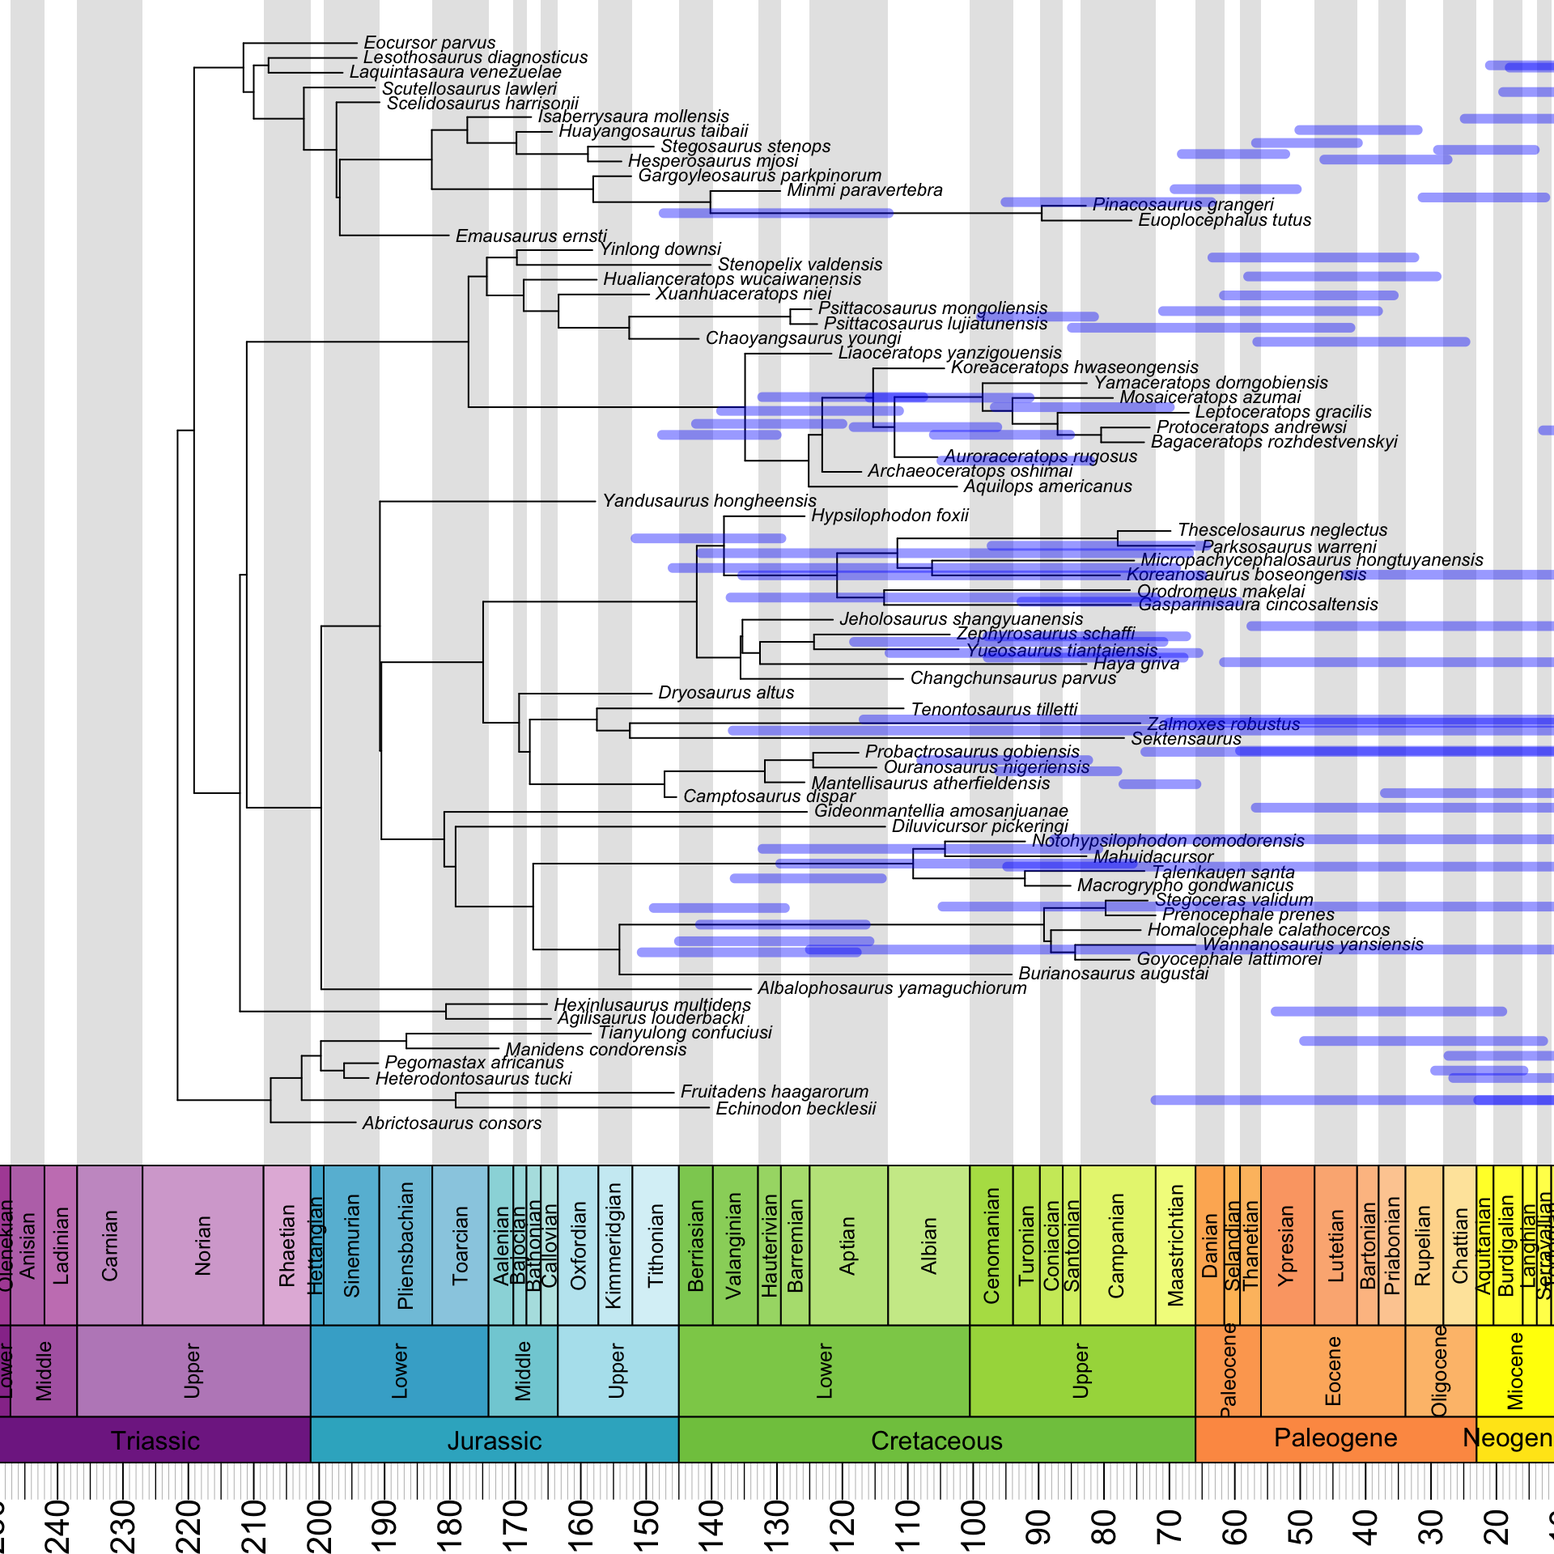
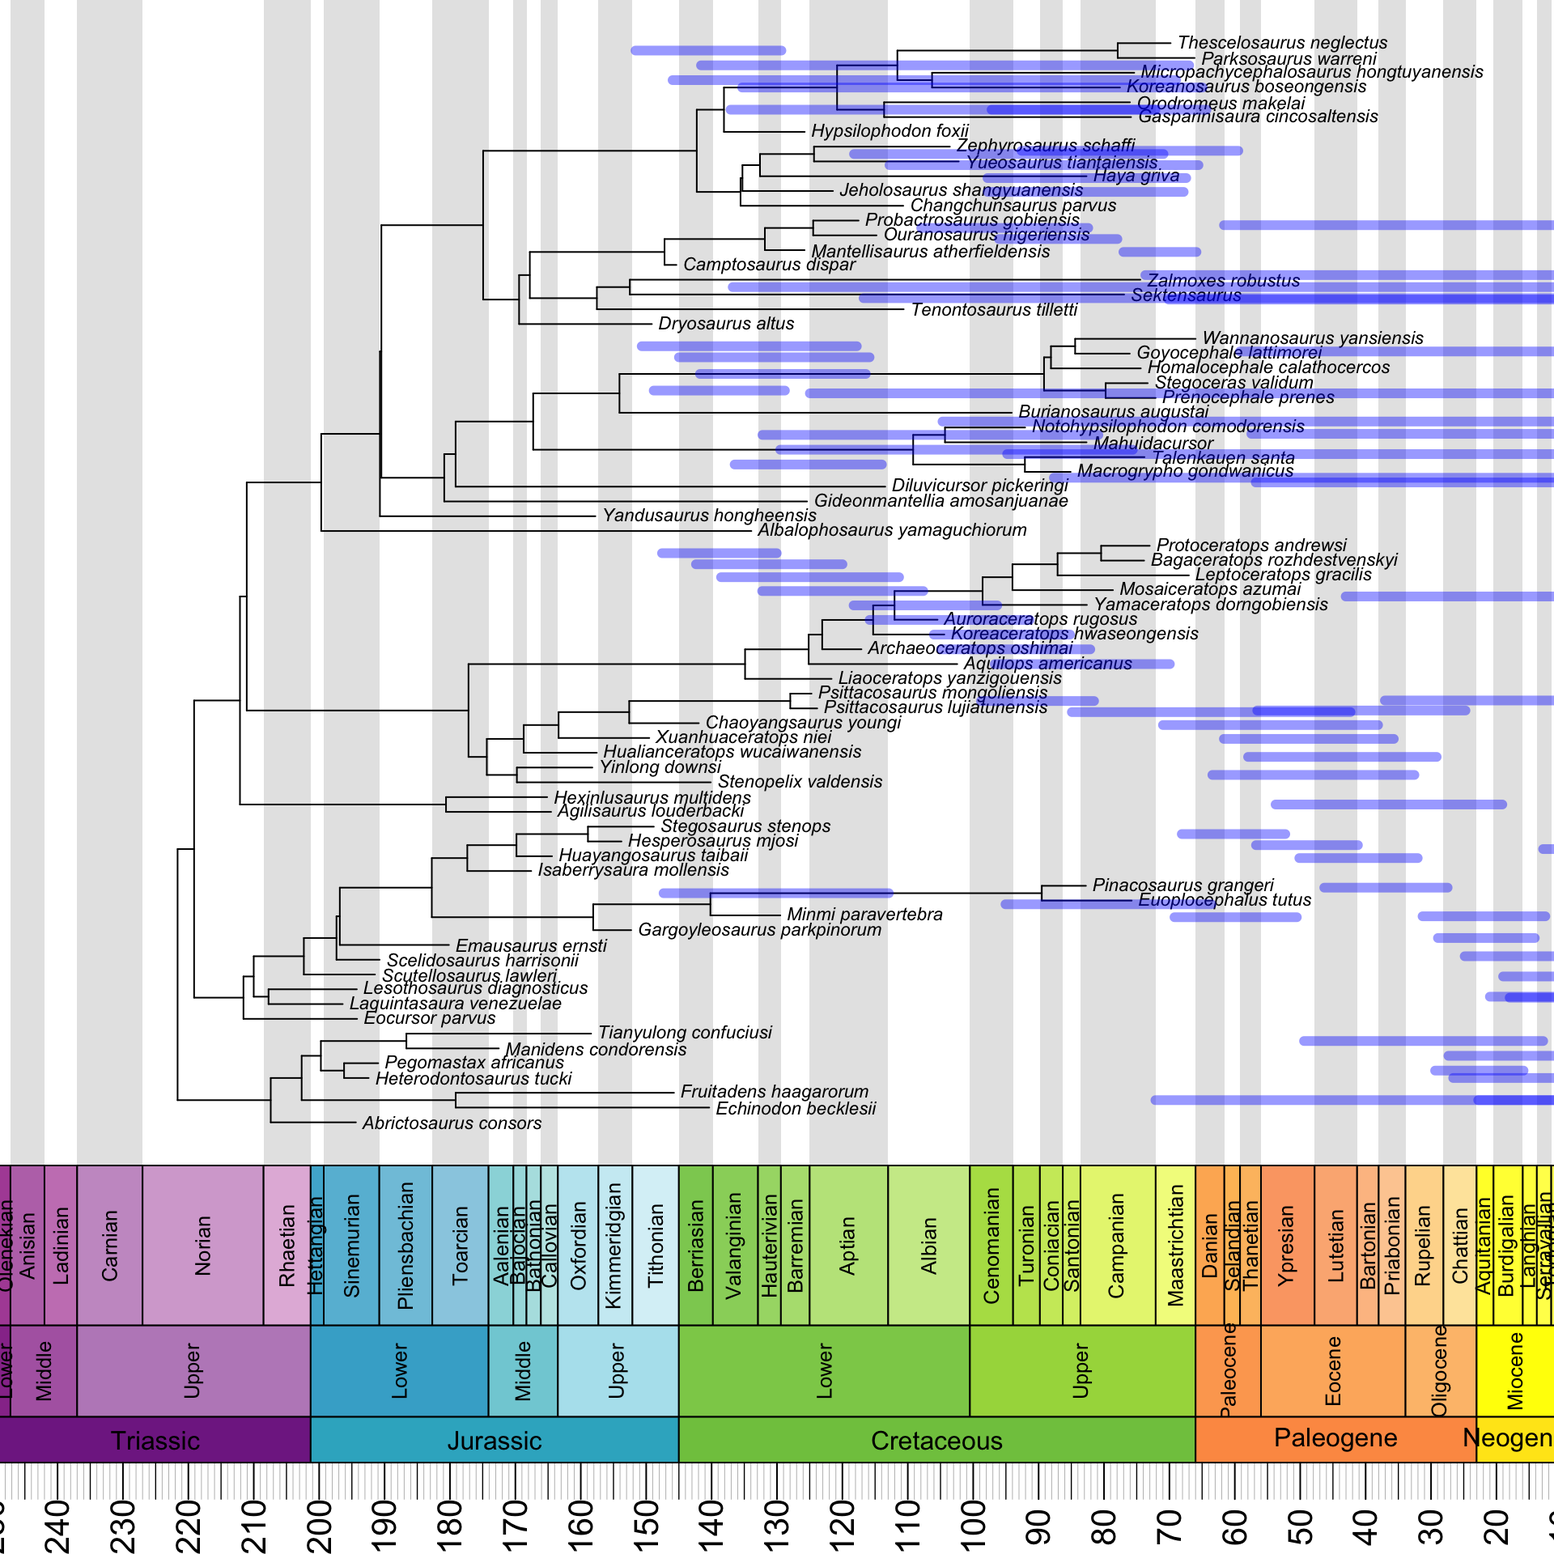
rebuilding site Wed Jan 29 10:23:34 CST 2020

diff --git a/post/plotting_beast/index.html b/post/plotting_beast/index.html
@@ -28,7 +28,7 @@
   
     
   
-  <meta name="description" content="The summary of the posterior from a Bayesian tip-dating analysis – e.g., the maximum clade credibility tree computed by TreeAnnotator from a BEAST 2 posterior – usually provides a whole wealth of information to the user, and while barebones, quick-and-dirty plotting of the results using FigTree or plot.phylo() is good enough for assessing whether the results are reasonable or not, it definitely doesn’t provide publication-quality figures. Below, I’ll try to show how such figures can be made those by combining several existing R packages.">
+  <meta name="description" content="The summary of the posterior from a Bayesian tip-dating analysis – e.g., the maximum clade credibility tree computed by TreeAnnotator from a BEAST 2 posterior – usually provides a whole wealth of information to the user, and while barebones, quick-and-dirty plotting of the results using FigTree or plot.phylo() is good enough for assessing whether the results are reasonable or not, it definitely doesn’t provide publication-quality figures. Below, I’ll try to show how such figures can be made by combining several existing R packages.">
 
   
   <link rel="alternate" hreflang="en-us" href="/post/plotting_beast/">
@@ -112,7 +112,7 @@
   <meta property="og:site_name" content="David Černý">
   <meta property="og:url" content="/post/plotting_beast/">
   <meta property="og:title" content="Visualizing BEAST 2 time trees | David Černý">
-  <meta property="og:description" content="The summary of the posterior from a Bayesian tip-dating analysis – e.g., the maximum clade credibility tree computed by TreeAnnotator from a BEAST 2 posterior – usually provides a whole wealth of information to the user, and while barebones, quick-and-dirty plotting of the results using FigTree or plot.phylo() is good enough for assessing whether the results are reasonable or not, it definitely doesn’t provide publication-quality figures. Below, I’ll try to show how such figures can be made those by combining several existing R packages."><meta property="og:image" content="/post/plotting_beast/featured.png">
+  <meta property="og:description" content="The summary of the posterior from a Bayesian tip-dating analysis – e.g., the maximum clade credibility tree computed by TreeAnnotator from a BEAST 2 posterior – usually provides a whole wealth of information to the user, and while barebones, quick-and-dirty plotting of the results using FigTree or plot.phylo() is good enough for assessing whether the results are reasonable or not, it definitely doesn’t provide publication-quality figures. Below, I’ll try to show how such figures can be made by combining several existing R packages."><meta property="og:image" content="/post/plotting_beast/featured.png">
   <meta property="twitter:image" content="/post/plotting_beast/featured.png"><meta property="og:locale" content="en-us">
   
     
@@ -168,7 +168,7 @@
       "url": "/img/icon-512.png"
     }
   },
-  "description": "The summary of the posterior from a Bayesian tip-dating analysis – e.g., the maximum clade credibility tree computed by TreeAnnotator from a BEAST 2 posterior – usually provides a whole wealth of information to the user, and while barebones, quick-and-dirty plotting of the results using FigTree or plot.phylo() is good enough for assessing whether the results are reasonable or not, it definitely doesn’t provide publication-quality figures. Below, I’ll try to show how such figures can be made those by combining several existing R packages."
+  "description": "The summary of the posterior from a Bayesian tip-dating analysis – e.g., the maximum clade credibility tree computed by TreeAnnotator from a BEAST 2 posterior – usually provides a whole wealth of information to the user, and while barebones, quick-and-dirty plotting of the results using FigTree or plot.phylo() is good enough for assessing whether the results are reasonable or not, it definitely doesn’t provide publication-quality figures. Below, I’ll try to show how such figures can be made by combining several existing R packages."
 }
 </script>
 
@@ -586,10 +586,10 @@
       
 
 
-<p>The summary of the posterior from a Bayesian tip-dating analysis – e.g., the maximum clade credibility tree computed by TreeAnnotator from a BEAST 2 posterior – usually provides a whole wealth of information to the user, and while barebones, quick-and-dirty plotting of the results using FigTree or <code>plot.phylo()</code> is good enough for assessing whether the results are reasonable or not, it definitely doesn’t provide publication-quality figures. Below, I’ll try to show how such figures can be made those by combining several existing R packages.</p>
+<p>The summary of the posterior from a Bayesian tip-dating analysis – e.g., the maximum clade credibility tree computed by TreeAnnotator from a BEAST 2 posterior – usually provides a whole wealth of information to the user, and while barebones, quick-and-dirty plotting of the results using FigTree or <code>plot.phylo()</code> is good enough for assessing whether the results are reasonable or not, it definitely doesn’t provide publication-quality figures. Below, I’ll try to show how such figures can be made by combining several existing R packages.</p>
 <div id="starting-point-strap" class="section level2">
 <h2>Starting point: <code>strap</code></h2>
-<p>The <code>geoscalePhylo()</code> function from the <code>strap</code> package (Bell &amp; Lloyd 2014) is well-known and widely used. It plots a time tree against a nice colorful timescale (the colors are the official color codes of the Commission for the Geological Map of the World), and includes other niceties inherited from <code>plot.phylo()</code>, such as automatically stripping tip names of underscores and printing them in italics. One of the nice options we have at our disposal with <code>geoscalePhylo()</code> is to visualize the uncertainty in the ages of not just the internal nodes (we do that below), but also the tips. We can do that using an age range table like the one below:</p>
+<p>The <code>geoscalePhylo()</code> function from the <code>strap</code> package (Bell &amp; Lloyd 2014) is well-known and widely used. It plots a time tree against a nice colorful timescale (the colors are the official color codes of the Commission for the Geological Map of the World), and includes other niceties inherited from <code>plot.phylo()</code>, such as automatically stripping tip names of underscores and printing them in italics. One of the cool options we have at our disposal with <code>geoscalePhylo()</code> is to visualize the uncertainty in the ages of not just the internal nodes (we do that further down below), but also the tips. We can do that using an age range table like the one below:</p>
 <pre class="r"><code>if(!require(&quot;kableExtra&quot;)) {install.packages(&quot;kableExtra&quot;)}
 library(kableExtra)
 
@@ -603,7 +603,7 @@ head(age_table)</code></pre>
 ## 4           Aquilops_americanus  99.6 109.0
 ## 5       Archaeoceratops_oshimai 113.0 129.4
 ## 6        Auroraceratops_rugosus 100.5 129.4</code></pre>
-<p>We need to reshuffle our age range table a bit, since <code>geoscalePhylo()</code> needs a matrix whose first and last appearance dates are in the right order:</p>
+<p>We need to reshuffle our age range table a bit, since <code>geoscalePhylo()</code> needs a matrix whose first and last appearance dates are in the right order, and which has exactly the right column and row names:</p>
 <pre class="r"><code>if(!require(&quot;phytools&quot;)) {install.packages(&quot;phytools&quot;)}
 if(!require(&quot;strap&quot;)) {install.packages(&quot;strap&quot;)}
 library(phytools)
@@ -618,7 +618,7 @@ tree &lt;- read.nexus(&quot;~/my_MCC_tree.tre&quot;)
 # geoscalePhylo() needs the $root.time element for plotting
 tree$root.time &lt;- max(nodeHeights(tree)) + 66.0
 
-geoscalePhylo(tree, ages = my_ages, x.lim = c(20, 240), cex.tip = 0.7, cex.age = 1.3, cex.ts = 1)</code></pre>
+geoscalePhylo(ladderize(tree, right = F), ages = my_ages, x.lim = c(20, 240), cex.tip = 0.7, cex.age = 1.3, cex.ts = 1)</code></pre>
 <p><img src="/post/plotting_beast/index_files/figure-html/unnamed-chunk-2-1.png" width="960" /></p>
 <p>Internally, <code>geoscalePhylo()</code> calls the <code>plot.phylo()</code> function bundled with <code>ape</code>, and so it accepts all of the latter’s arguments. We can make use of this to highlight clades.</p>
 <p>Let’s assume that we have a list where each clade to be highlighted gets a pair of “anchors”, whose MRCA is also the MRCA of the entire clade – like this one:</p>
@@ -640,8 +640,8 @@ geoscalePhylo(tree, ages = my_ages, x.lim = c(20, 240), cex.tip = 0.7, cex.age =
   }
   return(cols)  
 }</code></pre>
-<p>Here, we are assuming that the user specifies which color to assign to which clade, rather than creating the colors within the function itself. An additional step is involved when we need to filter the descendant nodes down to tips only: we could get rid of it by using a different function, like <code>Descendants()</code> from <code>phangorn</code> (Schliep 2010), which takes node type as an argument. Here, we exploit the fact that in many of the R packages dealing with phylogenetic trees, the labeling of the nodes assigns numbers from 1 to <span class="math inline">\(n\)</span> to the tips (leaves), <span class="math inline">\(n+1\)</span> to the root, and <span class="math inline">\(n+2\)</span> thru <span class="math inline">\(2n-1\)</span> to the remaining internal nodes. Conversely, we can count on the fact that nodes labeled with numbers less than or equal to <span class="math inline">\(n\)</span> are the tips.</p>
-<p>The step that consists of coloring all branches descended from the same MRCA is more involved. Fortunately, the indefatigable Liam Revell provided code that does just that in one of the posts on his excellent phytools blog:</p>
+<p>Here, we are assuming that the user specifies which color to assign to which clade, rather than creating the colors within the function itself. An additional step is involved when we need to filter the descendant nodes down to tips only: we could get rid of it by using a different function, like <code>Descendants()</code> from <code>phangorn</code> (Schliep 2010), which takes node type as an argument. Here, we exploit the fact that in many of the R packages dealing with phylogenetic trees, the default node labeling scheme assigns numbers from 1 to <span class="math inline">\(n\)</span> to the tips (leaves), <span class="math inline">\(n+1\)</span> to the root, and <span class="math inline">\(n+2\)</span> thru <span class="math inline">\(2n-1\)</span> to the remaining internal nodes. Conversely, we can count on the fact that nodes labeled with numbers less than or equal to <span class="math inline">\(n\)</span> are the tips.</p>
+<p>The step that consists of coloring all branches descended from the same MRCA is more involved. Fortunately, the indefatigable Liam Revell provides code that does just that in one of the posts on his excellent phytools blog:</p>
 <p><a href="http://blog.phytools.org/2017/04/coloring-edges-of-plotted-trees-in.html" class="uri">http://blog.phytools.org/2017/04/coloring-edges-of-plotted-trees-in.html</a></p>
 <p>Here, we simply package that code into a function analogous to the one shown above:</p>
 <pre class="r"><code>branch.coloring &lt;- function(tree, clade_list, group_cols) {
@@ -656,8 +656,8 @@ geoscalePhylo(tree, ages = my_ages, x.lim = c(20, 240), cex.tip = 0.7, cex.age =
 </div>
 <div id="adding-hpds-phyloch-and-weird-loops" class="section level2">
 <h2>Adding HPDs: <code>phyloch</code> and weird loops</h2>
-<p>The next thing we’d like to do than can’t be done easily using any of the many available <code>geoscalePhylo</code> arguments is to add 95% highest posterior density (HPD) intervals to the nodes on our tree.</p>
-<p>The first step is to extract the needed information from the annotated Nexus file produced by TreeAnnotator. There used to be several options for parsing such files; my favorite one was probably <code>read.annotated.nexus()</code> from the <code>OutbreakTools</code> library (Jombart et al. 2014), which unfortunately seems to have lately fallen victim to package dependency troubles. Nevertheless, the <code>read.beast()</code> function from the <code>phyloch</code> package (Heibl 2013) provides a great alternative. Note that we might want to define a new “annotation” (more accurately, add a new element to the list by which the tree is internally represented in R) that doesn’t care about how exactly we got our HPDs (from common ancestor heights? from median heights?) and that can be further manipulated:</p>
+<p>The next thing we’d like to do than can’t be easily done using any of the many available <code>geoscalePhylo</code> arguments is to add 95% highest posterior density (HPD) intervals to the nodes of our tree.</p>
+<p>The first step is to extract the necessary information from the annotated Nexus file produced by TreeAnnotator. There used to be several options for parsing such files; my favorite one was probably <code>read.annotated.nexus()</code> from the <code>OutbreakTools</code> library (Jombart et al. 2014), which unfortunately seems to have lately fallen victim to package dependency troubles. Nevertheless, the <code>read.beast()</code> function from the <code>phyloch</code> package (Heibl 2013) provides a great alternative. Note that we might want to define a new “annotation” (more accurately, add a new element to the list by which the tree is internally represented in R) that doesn’t care about how exactly we got our HPDs (from common ancestor heights? from median heights?) and that can be further manipulated:</p>
 <pre class="r"><code>if(!require(&quot;phyloch&quot;)) {install.packages(&quot;phyloch&quot;)}
 library(phyloch)
 
@@ -683,11 +683,11 @@ if (length(params$mean[params$statistic == &quot;offset&quot;] != 0)) {
   annot_tree$min_ages &lt;- annot_tree$min_ages + offset
   annot_tree$max_ages &lt;- annot_tree$max_ages + offset
 }</code></pre>
-<p>The most complicated steps consists of using this info to actually draw the HPDs – this is often done using half-transparent color bars – around the nodes. The basis for what we are going to do is again provided by Liam Revell:</p>
+<p>The most complicated step consists of using this info to actually draw the HPDs – this is often done using half-transparent color bars – around the nodes. The basis for what we are going to do is again provided by Liam Revell:</p>
 <p><a href="http://blog.phytools.org/2017/03/error-bars-on-divergence-times-on.html" class="uri">http://blog.phytools.org/2017/03/error-bars-on-divergence-times-on.html</a></p>
 <p>However, as we see below, our attempt to simply reuse the code given in the blog post does not produce satisfying results:</p>
 <pre class="r"><code>annot_tree$root.time &lt;- max(nodeHeights(annot_tree)) + 66.0
-geoscalePhylo(annot_tree, x.lim = c(20, 240), cex.tip = 0.7, cex.age = 1.3, cex.ts = 1)
+geoscalePhylo(ladderize(annot_tree, right = F), x.lim = c(20, 240), cex.tip = 0.7, cex.age = 1.3, cex.ts = 1)
 
 T1 &lt;- get(&quot;last_plot.phylo&quot;, envir = .PlotPhyloEnv)
 
@@ -700,7 +700,7 @@ for(i in (Ntip(annot_tree) + 1):(annot_tree$Nnode + Ntip(annot_tree))) {
 <p><img src="/post/plotting_beast/index_files/figure-html/unnamed-chunk-8-1.png" width="960" /></p>
 <p>Yes, our HPDs are clearly horrifyingly wide, but they are also not associated with the right nodes – in fact, they are not associated with any <em>nodes</em>, and instead just float freely over the tree. What’s happening here?</p>
 <p>The answer is that the HPDs are reflected about a vertical axis in the middle of the plot. It turns out that we need to subtract both of their endpoints from the root age to fix this:</p>
-<pre class="r"><code>geoscalePhylo(annot_tree, x.lim = c(20, 240), cex.tip = 0.7, cex.age = 1.3, cex.ts = 1)
+<pre class="r"><code>geoscalePhylo(ladderize(annot_tree, right = F), x.lim = c(20, 240), cex.tip = 0.7, cex.age = 1.3, cex.ts = 1)
 
 T1 &lt;- get(&quot;last_plot.phylo&quot;, envir = .PlotPhyloEnv)
 
@@ -715,7 +715,7 @@ for(i in (Ntip(annot_tree) + 1):(annot_tree$Nnode + Ntip(annot_tree))) {
 </div>
 <div id="putting-it-all-together" class="section level2">
 <h2>Putting it all together</h2>
-<p>Aside from what we went over above, the function below also parameterizes at what ages to start and stop plotting (so far we’ve used the fixed values of 20 and 240, respectively), automatically draws the right number of colors to highlight clades with from the good-looking <code>viridis</code> palette, and annotates notes with their posterior probabilities:</p>
+<p>Aside from what we went over above, the function below also parameterizes at what ages to start and stop plotting (so far we’ve used the fixed values of 20 and 240, respectively), automatically draws the right number of colors to highlight clades with from the good-looking <code>viridis</code> palette, and annotates nodes with their posterior probabilities:</p>
 <pre class="r"><code>if(!require(&quot;viridis&quot;)) {install.packages(&quot;viridis&quot;)}
 library(viridis)
 
@@ -757,9 +757,10 @@ beast.plotter &lt;- function(basepath, clade_list, xmin, xmax) {
   br_cols &lt;- branch.coloring(base_tree, clade_list, clade_cols)
   tip_cols &lt;- tip.coloring(base_tree, clade_list, clade_cols)
 
-  geoscalePhylo(tree = base_tree, ages = age_mat, units = c(&quot;Period&quot;, &quot;Epoch&quot;, &quot;Age&quot;), 
-                boxes = &quot;Epoch&quot;, cex.tip = 0.7, cex.age = 1.3, cex.ts = 1, width = 2,
-                x.lim = c(xmin, xmax), edge.color = br_cols, tip.color = tip_cols)
+  geoscalePhylo(tree = ladderize(base_tree, right = F), ages = age_mat,
+                units = c(&quot;Period&quot;, &quot;Epoch&quot;, &quot;Age&quot;), boxes = &quot;Epoch&quot;, cex.tip = 0.7,
+                cex.age = 1.3, cex.ts = 1, width = 2, x.lim = c(xmin, xmax),
+                edge.color = br_cols, tip.color = tip_cols)
   nodelabels(base_tree$node.label)
   T1 &lt;- get(&quot;last_plot.phylo&quot;, envir = .PlotPhyloEnv)
   

diff --git a/categories/r/index.html b/categories/r/index.html
@@ -451,7 +451,7 @@
     <h2><a href="/post/plotting_beast/">Visualizing BEAST 2 time trees</a></h2>
     <div class="article-style">
       
-      The summary of the posterior from a Bayesian tip-dating analysis – e.g., the maximum clade credibility tree computed by TreeAnnotator from a BEAST 2 posterior – usually provides a whole wealth of information to the user, and while barebones, quick-and-dirty plotting of the results using FigTree or plot.phylo() is good enough for assessing whether the results are reasonable or not, it definitely doesn’t provide publication-quality figures. Below, I’ll try to show how such figures can be made those by combining several existing R packages.
+      The summary of the posterior from a Bayesian tip-dating analysis – e.g., the maximum clade credibility tree computed by TreeAnnotator from a BEAST 2 posterior – usually provides a whole wealth of information to the user, and while barebones, quick-and-dirty plotting of the results using FigTree or plot.phylo() is good enough for assessing whether the results are reasonable or not, it definitely doesn’t provide publication-quality figures. Below, I’ll try to show how such figures can be made by combining several existing R packages.
       
     </div>
   </div>
